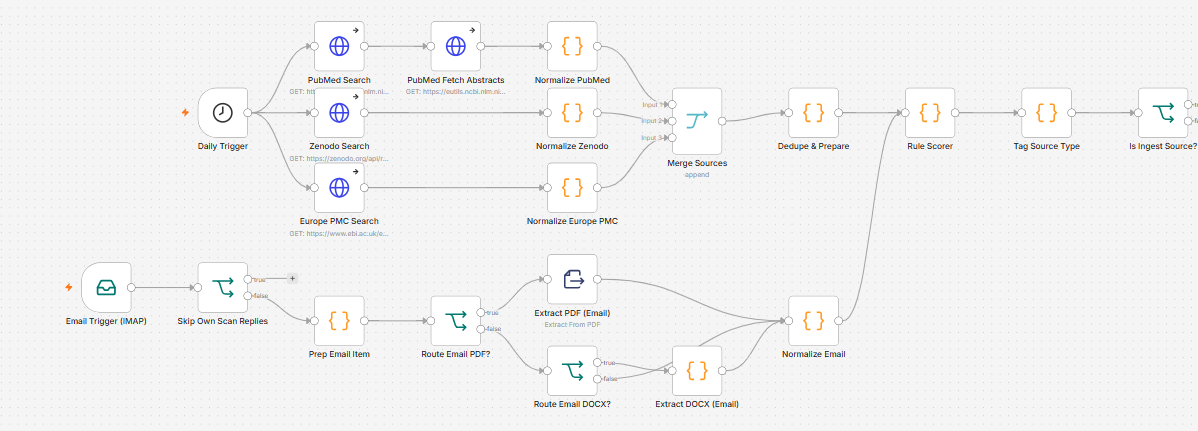
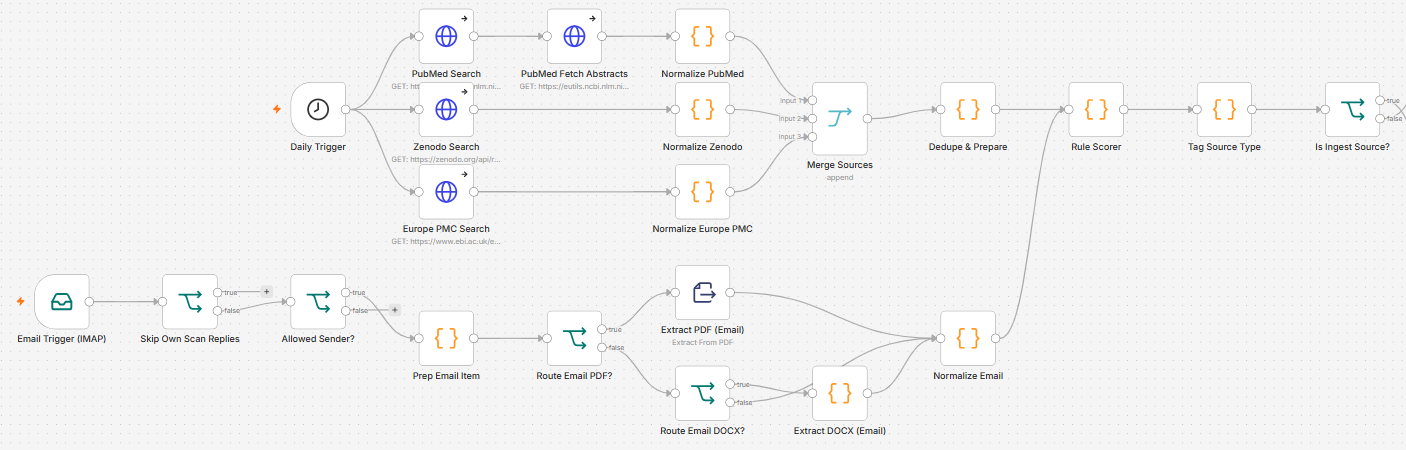
Workflow fixes: sender check, visible Groq failures, minimum text length, honest scan reply
- Allowed Sender? node: only emails from your address are scanned
- Groq errors or broken JSON keep the rule score, are marked 'AI judge unavailable' and add a warning to the daily report
- Email lane skips texts under 200 characters with a 'could not read' reply
- Scan reply footer matches how scores are blended; red colour uses the same cut-off as the verdict
- Docs and screenshots updated

diff --git a/docs/GUIDE.md b/docs/GUIDE.md
@@ -6,10 +6,10 @@ A node-by-node walkthrough of the n8n workflow in [`workflow.json`](../workflow.
 
 Every morning at 08:00 this workflow collects up to 10 new medical articles, scores how likely each one was written by AI, then emails you a report and updates `articles.json` on your GitHub site. It also watches your inbox: any unread email (or its PDF/DOCX attachment) gets the same check, and you get a scan-result email back.
 
-The 35 nodes form three parts that share one scoring engine:
+The 36 nodes form three parts that share one scoring engine:
 
 - **Daily lane (top):** Daily Trigger → PubMed, Zenodo and Europe PMC → merge → remove duplicates → score → Groq AI second opinion → email report + GitHub commit.
-- **Email lane (bottom):** IMAP trigger → skip the workflow's own replies → read the email → extract text from PDF or DOCX → score → Groq AI second opinion → reply email.
+- **Email lane (bottom):** IMAP trigger → skip the workflow's own replies and unknown senders → read the email → extract text from PDF or DOCX → score → Groq AI second opinion → reply email.
 - **Shared core (middle):** both lanes pass through the same **Rule Scorer**. The **Is Ingest Source?** node then sends each item back to its own lane.
 
 Every item that reaches the Rule Scorer has the same five fields: `source`, `title`, `text`, `url`, `date`. Each lane's "Normalize" Code node exists to build exactly this shape.
@@ -411,6 +411,7 @@ Groq runs open models very fast and offers an OpenAI-compatible API, so the requ
 | Send Body | On |
 | Body Content Type | JSON |
 | Specify Body | Using JSON (as an expression, below) |
+| Settings → On Error | Continue (an API error falls back to the rule score, see node 16) |
 
 ```javascript
 {{ JSON.stringify({
@@ -448,6 +449,8 @@ This node lines up Groq's results with the Rule Scorer items by position (result
 
 Flagged = final score 0.7 or more. Groq has the last word when it is confident.
 
+**If Groq gives no usable answer** (an API error, broken JSON or a missing result), the article keeps its rule score, is labelled *AI judge unavailable*, and the daily report shows a red warning at the top. The report never silently pretends everything is human.
+
 ```javascript
 const ruleItems = $('Rule Scorer').all().map(i => i.json);
 let groq = [];
@@ -455,43 +458,58 @@ try {
     const raw = $input.first().json;
     const content = raw?.choices?.[0]?.message?.content || raw?.body?.choices?.[0]?.message?.content || '';
     const parsed = typeof content === 'string' ? JSON.parse(content) : content;
-    groq = parsed.results || parsed || [];
+    groq = Array.isArray(parsed.results) ? parsed.results : (Array.isArray(parsed) ? parsed : []);
 } catch (e) { groq = []; }
 const out = ruleItems.map((r, idx) => {
+    // AI judge gave no usable answer for this item: keep the rule score and say so
+    const gRaw = groq[idx];
+    if (!gRaw || (typeof gRaw.score !== 'number' && !gRaw.label)) {
+        const ruleOnly = typeof r.ai_probability === 'number' ? r.ai_probability : 0;
+        return {
+            ...r,
+            rule_probability: ruleOnly,
+            ai_second_opinion: null,
+            ai_second_label: 'Unavailable',
+            judge_unavailable: true,
+            ai_probability: ruleOnly,
+            flagged: ruleOnly >= 0.7,
+            reasoning: (r.reasoning || '') + ' | AI judge unavailable: rule score only'
+        };
+    }
     const g = groq[idx] || {};
     const gLabel = (g.label || '').toString().toLowerCase();
     const aiFromGroq = gLabel.startsWith('ai') || gLabel.includes('fake');
     let groqAiProb;
     if (typeof g.score === 'number') {
-        const s = g.score;
-        if (aiFromGroq) {
-            groqAiProb = s >= 0.5 ? s : (1 - s);
-        } else {
-            groqAiProb = s <= 0.5 ? s : (1 - s);
-        }
+          const s = g.score;
+          if (aiFromGroq) {
+                  groqAiProb = s >= 0.5 ? s : (1 - s);
+          } else {
+                  groqAiProb = s <= 0.5 ? s : (1 - s);
+          }
     } else {
-        groqAiProb = aiFromGroq ? 0.8 : 0.1;
+          groqAiProb = aiFromGroq ? 0.8 : 0.1;
     }
     const ruleP = typeof r.ai_probability === 'number' ? r.ai_probability : 0;
     let finalP;
     if (groqAiProb <= 0.2) {
-        finalP = Math.min(0.15, groqAiProb * 0.5 + ruleP * 0.15);
+          finalP = Math.min(0.15, groqAiProb * 0.5 + ruleP * 0.15);
     } else if (groqAiProb >= 0.8) {
-        finalP = Math.max(0.75, groqAiProb * 0.7 + ruleP * 0.3);
+          finalP = Math.max(0.75, groqAiProb * 0.7 + ruleP * 0.3);
     } else {
-        finalP = groqAiProb * 0.6 + ruleP * 0.4;
+          finalP = groqAiProb * 0.6 + ruleP * 0.4;
     }
     finalP = Math.round(finalP * 100) / 100;
     const flagged = finalP >= 0.7;
     return {
-        ...r,
-        rule_probability: ruleP,
-        ai_second_opinion: Math.round(groqAiProb * 100) / 100,
-        ai_second_label: aiFromGroq ? 'AI' : 'Human',
-        likely_model: aiFromGroq ? (g.model || r.likely_model || 'Unknown') : '—',
-        ai_probability: finalP,
-        flagged: flagged,
-        reasoning: (r.reasoning || '') + ' | AI second opinion: ' + (aiFromGroq ? 'AI' : 'Human') + ' (' + Math.round(groqAiProb*100) + '%)'
+          ...r,
+          rule_probability: ruleP,
+          ai_second_opinion: Math.round(groqAiProb * 100) / 100,
+          ai_second_label: aiFromGroq ? 'AI' : 'Human',
+          likely_model: aiFromGroq ? (g.model || r.likely_model || 'Unknown') : '—',
+          ai_probability: finalP,
+          flagged: flagged,
+          reasoning: (r.reasoning || '') + ' | AI second opinion: ' + (aiFromGroq ? 'AI' : 'Human') + ' (' + Math.round(groqAiProb*100) + '%)'
     };
 });
 return out.map(o => ({ json: o }));
@@ -511,13 +529,14 @@ const flagged = items.filter(i => i.flagged);
 const esc = s => String(s || '').replace(/&/g, '&amp;').replace(/</g, '&lt;').replace(/>/g, '&gt;');
 const rows = list => list.map(i => `<tr><td><a href="${esc(i.url)}">${esc(i.title)}</a></td><td>${esc(i.source)}</td><td>${i.ai_probability === null || i.ai_probability === undefined ? 'n/a' : Math.round(i.ai_probability * 100) + '%'}</td><td>${esc(i.likely_model)}</td><td>${esc(i.reasoning)}</td></tr>`).join('');
 const table = list => `<table border="1" cellpadding="6" cellspacing="0" style="border-collapse:collapse;font-family:Arial,sans-serif;font-size:13px"><tr style="background:#f0f0f0"><th>Article</th><th>Source</th><th>AI probability</th><th>Likely model</th><th>Reasoning</th></tr>${rows(list)}</table>`;
-const html = `<h2>AI-Written Medical Articles — Daily Report</h2><p>${new Date().toDateString()} · ${items.length} articles analyzed · <b>${flagged.length} flagged as likely AI-written</b></p><h3>Flagged (probability ≥ 70%)</h3>${flagged.length ? table(flagged) : '<p>None today.</p>'}<h3>All analyzed articles</h3>${items.length ? table(items) : '<p>No articles with enough text were found today.</p>'}<p style="color:#888;font-size:11px">Note: AI-text detection is probabilistic and can be wrong in both directions. Treat these as leads, not proof.</p>`;
+const warn = items.some(i => i.judge_unavailable) ? '<p style="color:#B42318"><b>Warning:</b> the AI judge (Groq) did not answer for some or all articles. Their scores come from the rule engine only.</p>' : '';
+const html = `<h2>AI-Written Medical Articles — Daily Report</h2><p>${new Date().toDateString()} · ${items.length} articles analyzed · <b>${flagged.length} flagged as likely AI-written</b></p>${warn}<h3>Flagged (probability ≥ 70%)</h3>${flagged.length ? table(flagged) : '<p>None today.</p>'}<h3>All analyzed articles</h3>${items.length ? table(items) : '<p>No articles with enough text were found today.</p>'}<p style="color:#888;font-size:11px">Note: AI-text detection is probabilistic and can be wrong in both directions. Treat these as leads, not proof.</p>`;
 return [{ json: { html, total: items.length, flaggedCount: flagged.length } }];
 ```
 
 - `esc()` makes titles safe for HTML (so a `<` in a title cannot break the email).
 - `rows()` builds one table row per article; `table()` wraps rows in a styled table.
-- The email has a summary line, a "Flagged" table (score ≥ 70%) and an "All analyzed" table.
+- The email has a summary line, a warning when the AI judge was unavailable, a "Flagged" table (score ≥ 70%) and an "All analyzed" table.
 
 ### Node 18 – Send Daily Report (Send Email)
 
@@ -611,6 +630,20 @@ n8n marks the email as read after taking it, so each email is scanned once.
 
 The scan reply is sent to the same inbox the trigger watches. Without this node, every reply would be picked up, scanned and answered again, in an endless loop.
 
+### Node 23c – Allowed Sender? (If)
+
+| Field | Value |
+| --- | --- |
+| Condition type | String |
+| Value 1 | Expression `{{ JSON.stringify($json.from || '').toLowerCase() }}` |
+| Operation | Contains |
+| Value 2 | `you@example.com` (your own address) |
+| Combine | ANY |
+| true output | Prep Email Item |
+| false output | nothing (the email is ignored) |
+
+Only emails from your address are scanned, so spam and newsletters don't use Groq calls or trigger replies. To allow more senders, click **+ Add Condition** and add another address; with Combine = ANY, any match is enough.
+
 ### Node 24 – Prep Email Item (Code, Run Once for Each Item)
 
 ```javascript
@@ -689,11 +722,12 @@ This needs `NODE_FUNCTION_ALLOW_BUILTIN=zlib` (section 2).
 
 ```javascript
 const prep = $('Prep Email Item').item.json;
-const text = prep.hasAttachment ? ($json.text || '') : (prep.bodyText || '');
-return { json: { source: 'Email', title: prep.subject, text, url: '', date: new Date().toISOString() } };
+const text = (prep.hasAttachment ? ($json.text || '') : (prep.bodyText || '')).trim();
+// same 200-character minimum as the daily lane; too_short items get a 'could not read' reply
+return { json: { source: 'Email', title: prep.subject, text, url: '', date: new Date().toISOString(), too_short: text.length < 200 } };
 ```
 
-Builds the shared five-field shape. `source: 'Email'` is what later sends the item back to this lane. Then the item goes into the **Rule Scorer** and **Tag Source Type** (section 4), and **Is Ingest Source?** sends it to the true output.
+Builds the shared five-field shape and sets `too_short` when there are fewer than 200 characters of text (the same minimum as the daily lane), for example a scanned PDF that contains only images. `source: 'Email'` is what later sends the item back to this lane. Then the item goes into the **Rule Scorer** and **Tag Source Type** (section 4), and **Is Ingest Source?** sends it to the true output.
 
 ### Node 30 – Batch (Ingest) and Node 31 – AI Detection (Groq) (Ingest)
 
@@ -710,29 +744,89 @@ Same structure as Combine (Rule + AI), with three differences made for uploaded 
 | Flag threshold | 0.7 | 0.6 |
 | Extra field | – | `extraction_note` when the rule score is unreliable |
 
-The changed lines:
+It also handles two special cases first:
+
+- `too_short` items are not scored: they come back as *unreadable*, and the reply says the document could not be read.
+- If Groq gave no usable answer, the item keeps its rule score and is labelled *AI judge unavailable*.
 
 ```javascript
 // Combine for EMAIL/uploads: trust Groq more, esp. when rule score is unreliable (bad PDF extraction).
-...
+const ruleItems = $('Rule Scorer').all().map(i => i.json);
+let groq = [];
+try {
+    const raw = $input.first().json;
+    const content = raw?.choices?.[0]?.message?.content || raw?.body?.choices?.[0]?.message?.content || '';
+    const parsed = typeof content === 'string' ? JSON.parse(content) : content;
+    groq = Array.isArray(parsed.results) ? parsed.results : (Array.isArray(parsed) ? parsed : []);
+} catch (e) { groq = []; }
+const out = ruleItems.map((r, idx) => {
+    // Not enough readable text (e.g. a scanned PDF): don't pretend to score it
+    if (r.too_short) {
+        return {
+            ...r,
+            rule_probability: null,
+            ai_second_opinion: null,
+            ai_second_label: 'Skipped',
+            likely_model: '—',
+            ai_probability: null,
+            flagged: false,
+            unreadable: true,
+            extraction_note: 'not enough readable text',
+            reasoning: 'Not enough readable text to judge (under 200 characters). A scanned PDF contains images, not text.'
+        };
+    }
+    // AI judge gave no usable answer for this item: keep the rule score and say so
+    const gRaw = groq[idx];
+    if (!gRaw || (typeof gRaw.score !== 'number' && !gRaw.label)) {
+        const ruleOnly = typeof r.ai_probability === 'number' ? r.ai_probability : 0;
+        return {
+            ...r,
+            rule_probability: ruleOnly,
+            ai_second_opinion: null,
+            ai_second_label: 'Unavailable',
+            judge_unavailable: true,
+            ai_probability: ruleOnly,
+            flagged: ruleOnly >= 0.6,
+            reasoning: (r.reasoning || '') + ' | AI judge unavailable: rule score only'
+        };
+    }
+    const g = groq[idx] || {};
+    const gLabel = (g.label || '').toString().toLowerCase();
+    const aiFromGroq = gLabel.startsWith('ai') || gLabel.includes('fake');
+    let groqAiProb;
+    if (typeof g.score === 'number') {
+          const s = g.score;
+          if (aiFromGroq) {
+                  groqAiProb = s >= 0.5 ? s : (1 - s);
+          } else {
+                  groqAiProb = s <= 0.5 ? s : (1 - s);
+          }
     } else {
-        groqAiProb = aiFromGroq ? 0.8 : 0.15;
+          groqAiProb = aiFromGroq ? 0.8 : 0.15;
     }
     const ruleP = typeof r.ai_probability === 'number' ? r.ai_probability : 0;
     const ruleUnreliable = ruleP < 0.1;
     let finalP;
     if (ruleUnreliable) {
-        finalP = 0.9 * groqAiProb + 0.1 * ruleP;
+          finalP = 0.9 * groqAiProb + 0.1 * ruleP;
     } else {
-        finalP = 0.65 * groqAiProb + 0.35 * ruleP;
+          finalP = 0.65 * groqAiProb + 0.35 * ruleP;
     }
     finalP = Math.round(finalP * 100) / 100;
     const flagged = finalP >= 0.6;
     return {
-        ...r,
-        // same fields as the daily Combine, plus:
-        extraction_note: ruleUnreliable ? 'rule score low (possible extraction loss) - trusting AI judge' : '',
+          ...r,
+          rule_probability: ruleP,
+          ai_second_opinion: Math.round(groqAiProb * 100) / 100,
+          ai_second_label: aiFromGroq ? 'AI' : 'Human',
+          likely_model: aiFromGroq ? (g.model || r.likely_model || 'Unknown') : '—',
+          ai_probability: finalP,
+          flagged: flagged,
+          extraction_note: ruleUnreliable ? 'rule score low (possible extraction loss) - trusting AI judge' : '',
+          reasoning: (r.reasoning || '') + ' | AI second opinion: ' + (aiFromGroq ? 'AI' : 'Human') + ' (' + Math.round(groqAiProb*100) + '%)'
     };
+});
+return out.map(o => ({ json: o }));
 ```
 
 ### Node 33 – Build Scan Reply (Code, Run Once for All Items)
@@ -745,19 +839,41 @@ const rows = items.map(a => {
   const groq = Math.round((a.ai_second_opinion||0)*100);
   const rule = Math.round((a.rule_probability||0)*100);
   const flagged = a.flagged;
-  const color = p>=70 ? '#D6453F' : (p>=40 ? '#C77D0A' : '#1F9E8F');
-  const verdict = flagged ? 'LIKELY AI-WRITTEN' : (p>=40 ? 'MIXED SIGNALS' : 'LIKELY HUMAN');
+  const color = a.unreadable ? '#8A94A6' : (flagged ? '#D6453F' : (p>=40 ? '#C77D0A' : '#1F9E8F'));
+  const verdict = a.unreadable ? 'COULD NOT READ' : (flagged ? 'LIKELY AI-WRITTEN' : (p>=40 ? 'MIXED SIGNALS' : 'LIKELY HUMAN'));
+  const judge = a.ai_second_opinion === null || a.ai_second_opinion === undefined ? (a.ai_second_label || 'unavailable').toLowerCase() : `${a.ai_second_label} (${groq}%)`;
+  const detail = a.unreadable ? 'Not enough readable text to judge. A scanned PDF contains images, not text.' : `Rule engine: ${rule}% &nbsp;|&nbsp; AI judge: ${judge}`;
   const title = a.title || a.subject || 'Uploaded document';
-  return `<tr> ... title, "Rule engine: ${rule}% | AI judge: ${a.ai_second_label} (${groq}%)", big ${p}% and ${verdict} in ${color} ... </tr>`;
+  return `<tr>
+    <td style='padding:14px 0;border-bottom:1px solid #E1E8F2'>
+      <div style='font:600 15px Arial;color:#17223B'>${title}</div>
+      <div style='font:13px Arial;color:#5A6B85;margin-top:4px'>${detail}</div>
+    </td>
+    <td style='padding:14px 0;border-bottom:1px solid #E1E8F2;text-align:right;white-space:nowrap'>
+      <div style='font:700 26px Arial;color:${color}'>${a.unreadable ? '—' : p + '%'}</div>
+      <div style='font:600 11px Arial;color:${color};letter-spacing:1px'>${verdict}</div>
+    </td>
+  </tr>`;
 }).join('');
-const html = `<div style='max-width:600px;...'> ... header "Your document scan result" ... <table>${rows}</table> ... note: "Scores are a screening aid, not proof of authorship." ... </div>`;
+const html = `<div style='max-width:600px;margin:auto;font-family:Arial'>
+  <div style='background:#0B2545;color:#fff;padding:22px 24px;border-radius:10px 10px 0 0'>
+    <div style='font:600 12px Arial;color:#8FB2FF;letter-spacing:2px'>AI-CONTENT INTEGRITY AGENT</div>
+    <div style='font:700 20px Arial;margin-top:6px'>Your document scan result</div>
+  </div>
+  <div style='border:1px solid #E1E8F2;border-top:none;padding:8px 24px 20px;border-radius:0 0 10px 10px'>
+    <table style='width:100%;border-collapse:collapse'>${rows}</table>
+    <div style='font:12px Arial;color:#5A6B85;margin-top:16px'>Scores are a screening aid, not proof of authorship. The rule engine and an AI judge are blended into one score.</div>
+  </div>
+</div>`;
 const first = items[0] || {};
 const p0 = Math.round((first.ai_probability||0)*100);
-const subject = `Scan result: ${p0}% AI` + (first.flagged ? ' — FLAGGED' : '');
+const subject = first.unreadable ? 'Scan result: could not read the document' : (`Scan result: ${p0}% AI` + (first.flagged ? ' — FLAGGED' : ''));
 return [{ json: { html, subject, to: 'you@example.com' } }];
 ```
 
-(The long inline-CSS HTML is shortened here with `...`; open the node to see it in full.) Colours: red at 70% or more, amber at 40–69%, green below 40%.
+- Colour and verdict use the same cut-off: red with *LIKELY AI-WRITTEN* when the item is flagged (≥ 60%), amber with *MIXED SIGNALS* from 40%, green with *LIKELY HUMAN* below.
+- Unreadable documents show a grey *COULD NOT READ* card, and the subject becomes `Scan result: could not read the document`.
+- Every subject starts with `Scan result:`, which is what *Skip Own Scan Replies* filters on.
 
 ### Node 34 – Send Scan Reply (Send Email)
 
@@ -811,6 +927,10 @@ Follow these steps in order to watch the data change at each node. Each node sho
 
 ### Changelog
 
+- **Sender check:** the new *Allowed Sender?* node only lets emails from your own address into the email lane, so spam and newsletters are ignored.
+- **AI judge failures are visible:** if Groq errors or returns broken JSON, articles keep their rule score, are labelled *AI judge unavailable*, and the daily report shows a warning. Before, every article silently dropped to about 10–15% ("0 flagged").
+- **Minimum text in the email lane:** documents with under 200 characters of text (for example scanned PDFs) get a *could not read* reply instead of a meaningless score.
+- **Honest scan reply:** the footer now says the rule engine and the AI judge are blended into one score, and the red colour starts at the same cut-off as the *LIKELY AI-WRITTEN* verdict.
 - **Email loop fixed:** the new *Skip Own Scan Replies* node ignores the workflow's own `Scan result:` emails. Before, each reply was scanned again, sending a new email every ~30 seconds.
 - **Scan reply body:** *Send Scan Reply* now sends the HTML result card (it was sending an empty body).
 - **Balanced sources:** *Dedupe & Prepare* takes at most 4 articles per source, so Zenodo and Europe PMC are no longer crowded out by PubMed.
@@ -820,9 +940,9 @@ Follow these steps in order to watch the data change at each node. Each node sho
 
 | Limitation | Effect | Possible change |
 | --- | --- | --- |
-| Scan reply always goes to the address in *Build Scan Reply* | Someone else who emails a document does not get the result | Save the sender in *Prep Email Item* and use it as `to` |
+| Scan reply always goes to the address in *Build Scan Reply*, and only allowed senders are scanned | Others can't use the scanner | Add their addresses to *Allowed Sender?* and save the sender in *Prep Email Item* to reply to them |
 | Different flag thresholds: 0.7 (daily) and 0.6 (email) | The same text can be flagged by email but not in the daily report | Choose one value |
-| Groq results are matched by position | If Groq returns fewer results than texts, the last articles fall back to a default score | Check `results.length` in the Combine nodes |
+| Groq results are matched by position | If Groq returns fewer results than texts, the last articles fall back to their rule score (marked *AI judge unavailable*) | Ask Groq to echo an id per text and match on it |
 | Rule-based signals are heuristics | Short or heavily edited texts can be misjudged | Treat scores as leads, not proof |
 
 AI-text detection gives probabilities, not proof. Treat flagged articles as leads to check by hand.

diff --git a/README.md b/README.md
@@ -3,7 +3,7 @@
 An [n8n](https://n8n.io) workflow that checks how likely medical articles are to be AI-written.
 
 - **Daily scan (08:00):** collects new articles from **PubMed**, **Zenodo** and **Europe PMC** and keeps up to 10 (max 4 per source). Each article is scored twice: by a rule-based detector that needs no API, and by an LLM judge on **Groq** (`openai/gpt-oss-120b`). The workflow then emails an HTML report and commits `articles.json` to a GitHub repo, which a website can display.
-- **Email scanner:** send an email, or attach a **PDF** or **DOCX**, to the watched inbox. The workflow extracts the text, scores it the same way and emails back a result card.
+- **Email scanner:** send an email from your own address, or attach a **PDF** or **DOCX**, to the watched inbox. The workflow extracts the text, scores it the same way and emails back a result card. Other senders, spam and documents without readable text are skipped.
 
 > AI-text detection gives probabilities, not proof. Treat flagged articles as leads to check by hand.
 
@@ -56,6 +56,7 @@ Both lanes turn their input into the same five fields (`source`, `title`, `text`
 | Path | What it is |
 | --- | --- |
 | [`workflow.json`](workflow.json) | The n8n workflow, ready to import (no credentials or personal data inside) |
+| [`LICENSE`](LICENSE) | MIT license |
 | [`docs/GUIDE.md`](docs/GUIDE.md) | Node-by-node guide: settings, APIs and every Code node explained |
 | `docs/images/` | Workflow diagram |
 | `docs/screenshots/` | Screenshots from n8n |
@@ -87,7 +88,7 @@ PubMed (NCBI E-utilities), Zenodo and Europe PMC are free and need no key.
    | GitHub token | Header Auth | Name `Authorization`, Value `Bearer YOUR_GITHUB_TOKEN` |
 
 4. **Fill in your own details:**
-   - `you@example.com` in *Send Daily Report*, *Send Scan Reply* and *Build Scan Reply*
+   - `you@example.com` in *Send Daily Report*, *Send Scan Reply*, *Build Scan Reply* and *Allowed Sender?* (only emails from this address are scanned)
    - `YOUR_GITHUB_USER/YOUR_REPO` in *GitHub Get SHA* and *GitHub Commit*
 5. **Test:** click **Execute workflow** for the daily lane. For the email lane, send yourself an unread email with a PDF and use **Fetch Test Event** on the Email Trigger.
 6. **Publish** the workflow so it runs on its own.
@@ -103,3 +104,10 @@ PubMed (NCBI E-utilities), Zenodo and Europe PMC are free and need no key.
 
 - `workflow.json` contains **no secrets**: n8n stores credentials separately, and the export only references them by name.
 - The *Skip Own Scan Replies* node prevents a loop. Scan replies go to the same inbox the trigger watches, so without it every reply would be scanned again. Keep it, or use a separate inbox for documents to scan.
+- The *Allowed Sender?* node only lets emails from your address into the email lane, so spam doesn't use Groq calls or trigger replies. Add more addresses there if others should use the scanner.
+- If Groq fails or returns broken JSON, articles keep their rule score and are marked *AI judge unavailable*, and the daily report shows a warning instead of silently reporting "0 flagged".
+- Emails or attachments with under 200 characters of text (for example scanned PDFs) get a "could not read" reply instead of a score.
+
+## License
+
+[MIT](LICENSE)
